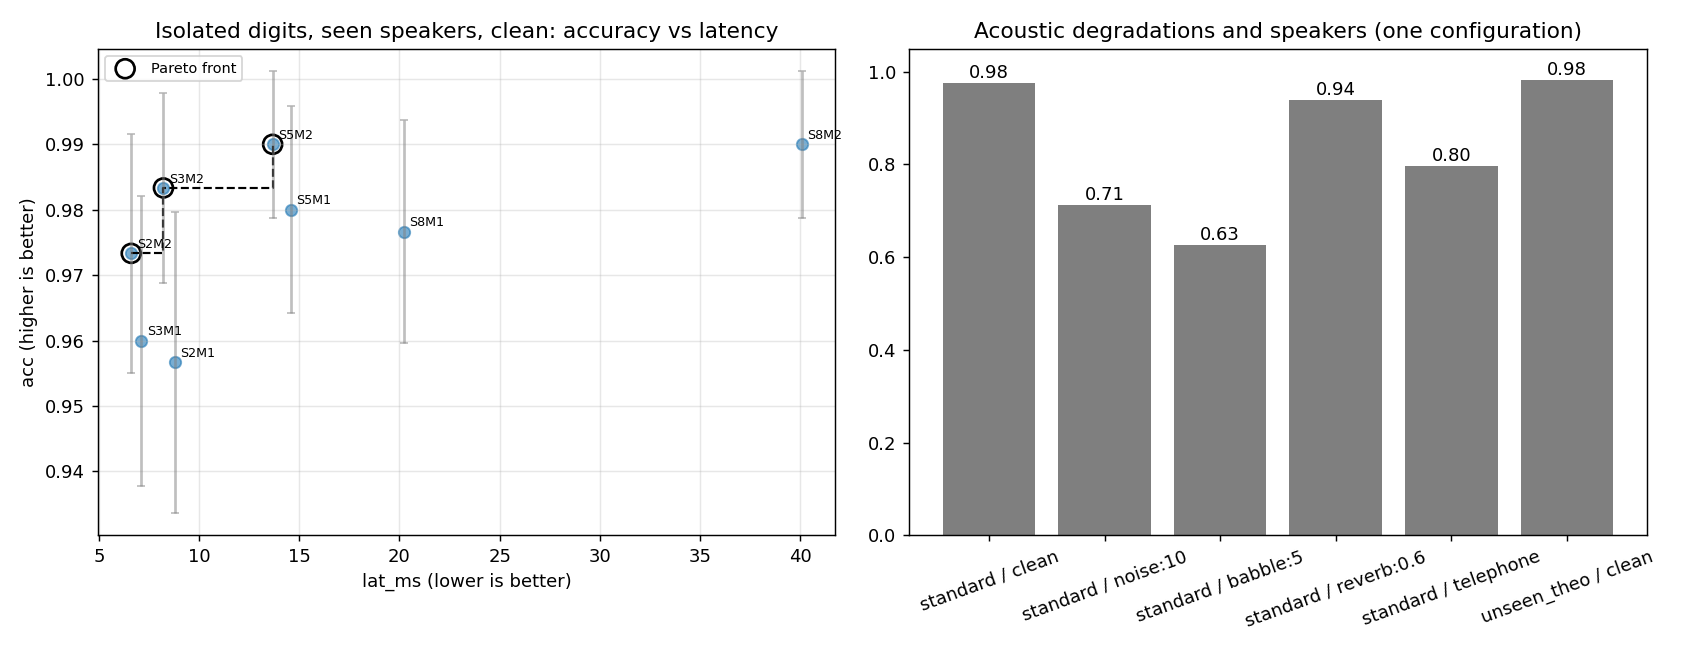
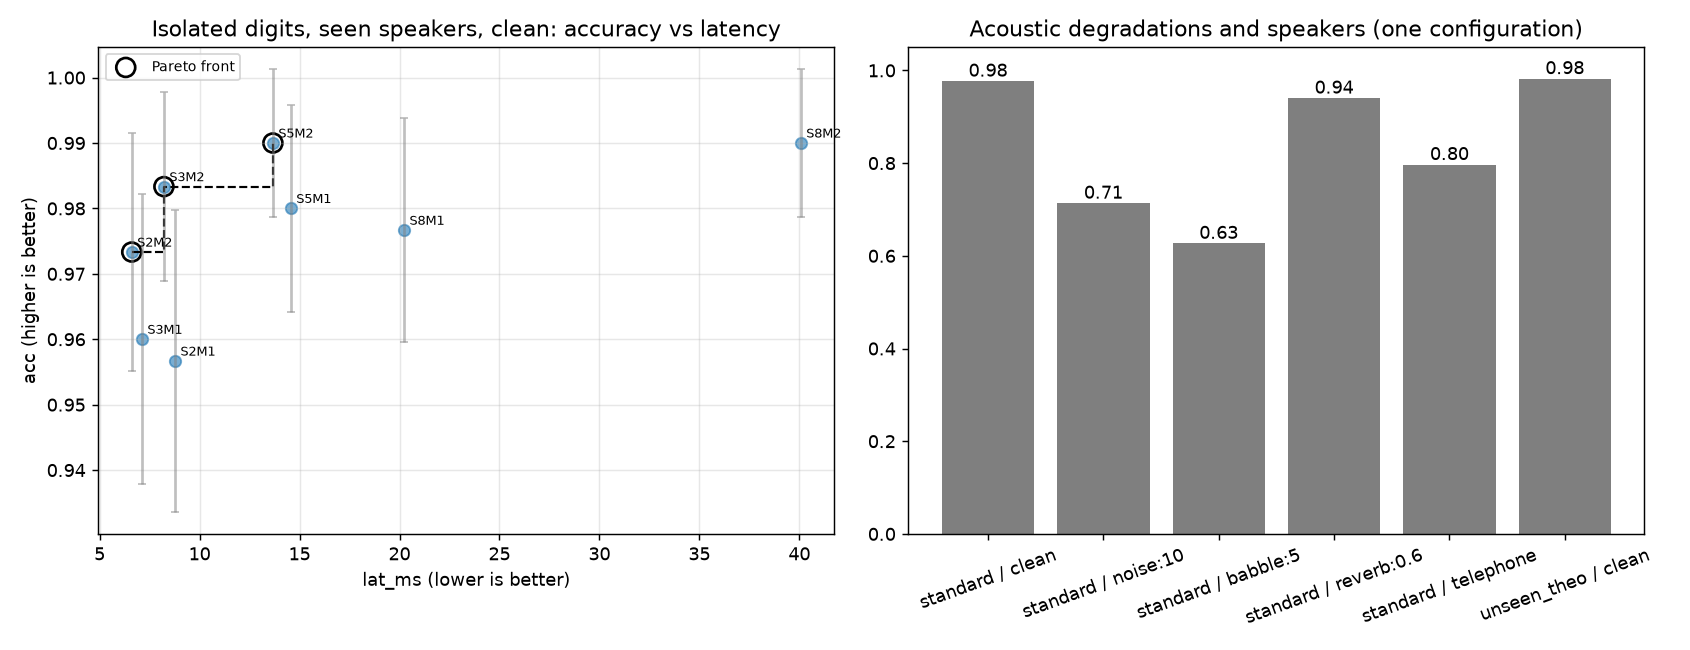
Day 1 afternoon: connected-digit benchmark, fix train_bigram silence and Windows compatibility

diff --git a/speech/gmm_hmm.py b/speech/gmm_hmm.py
@@ -288,25 +288,36 @@ def train_bigram(sentences: list[list[str]], vocab: list[str], k: float = 0.1,
     if k <= 0:
         raise ValueError("k must be strictly positive")
 
-    has_sil = sil_token is not None and sil_token in vocab
+    # The text corpus usually has no silence, but the decoder's vocabulary does:
+    # silence is added to the LM whether or not it appears in ``vocab``.
+    has_sil = sil_token is not None
     if has_sil and not 0.0 <= p_sil <= 1.0:
         raise ValueError("p_sil must be between 0 and 1")
 
-    contexts = ["<s>"] + list(vocab)
-    targets = [w for w in vocab if not (has_sil and w == sil_token)]
-    counts = {u: {v: 0 for v in vocab} for u in contexts}
+    targets = [w for w in vocab if not (has_sil and w == sil_token)]   # lexical words
+    contexts = ["<s>"] + targets + ([sil_token] if has_sil else [])
+    counts = {u: {v: 0 for v in targets} for u in contexts}
 
     # Count sentence-initial and within-sentence bigrams. Do not add an
     # end-of-sentence token: the decoder predicts only vocabulary tokens.
-    vocab_set = set(vocab)
+    # Silence tokens in the text are skipped so they do not distort lexical counts.
+    vocab_set = set(vocab) | ({sil_token} if has_sil else set())
     for sentence in sentences:
         unknown = set(sentence) - vocab_set
         if unknown:
             raise ValueError(f"sentence contains tokens outside vocab: {sorted(unknown)}")
         previous = "<s>"
         for word in sentence:
+            if has_sil and word == sil_token:
+                continue
             counts[previous][word] += 1
             previous = word
+
+    # After a silence the previous word is unknown to a bigram: use how often
+    # each word occurs as a successor (its unigram frequency).
+    if has_sil:
+        for v in targets:
+            counts[sil_token][v] = sum(counts[u][v] for u in contexts if u != sil_token)
 
     bigram = {}
     for u in contexts:
@@ -318,9 +329,9 @@ def train_bigram(sentences: list[list[str]], vocab: list[str], k: float = 0.1,
                 lexical_probs = smoothed / smoothed.sum() * (1.0 - p_sil)
                 row.update({v: float(prob) for v, prob in zip(targets, lexical_probs)})
         else:
-            smoothed = np.array([counts[u][v] + k for v in vocab], dtype=float)
+            smoothed = np.array([counts[u][v] + k for v in targets], dtype=float)
             probs = smoothed / smoothed.sum()
-            row.update({v: float(prob) for v, prob in zip(vocab, probs)})
+            row.update({v: float(prob) for v, prob in zip(targets, probs)})
 
         # Keep each row normalized despite floating-point rounding.
         total = sum(row.values())

diff --git a/common/bench.py b/common/bench.py
@@ -16,8 +16,12 @@ from __future__ import annotations
 import json
 import os
 import platform
-import resource
 import time
+
+try:  # Unix only; on Windows peak memory comes from psutil (if installed)
+    import resource
+except ImportError:
+    resource = None
 from contextlib import contextmanager
 from dataclasses import dataclass, field, asdict
 from pathlib import Path
@@ -153,7 +157,16 @@ def time_calls(fn: Callable[[Any], Any], inputs: list, warmup: int = 3) -> tuple
 
 
 def peak_memory_mb() -> dict:
-    out = {"cpu_maxrss_mb": resource.getrusage(resource.RUSAGE_SELF).ru_maxrss / 1024.0}
+    out = {}
+    if resource is not None:
+        out["cpu_maxrss_mb"] = resource.getrusage(resource.RUSAGE_SELF).ru_maxrss / 1024.0
+    else:
+        try:
+            import psutil
+            mi = psutil.Process().memory_info()
+            out["cpu_maxrss_mb"] = getattr(mi, "peak_wset", mi.rss) / 2**20
+        except ImportError:
+            pass
     torch = _torch()
     if torch is not None and torch.cuda.is_available():
         out["gpu_peak_mb"] = torch.cuda.max_memory_allocated() / 2**20
